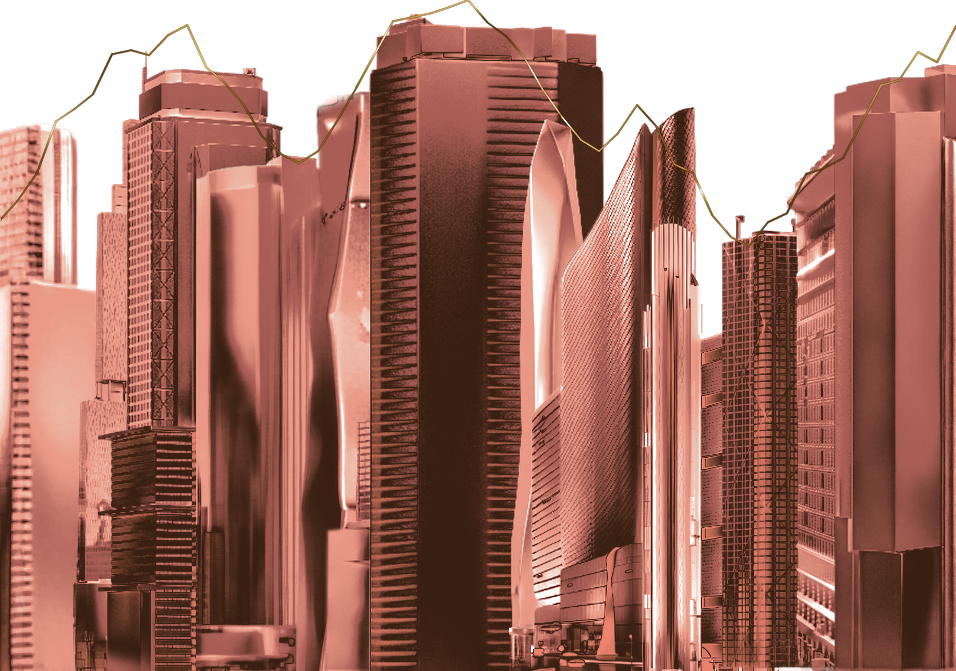
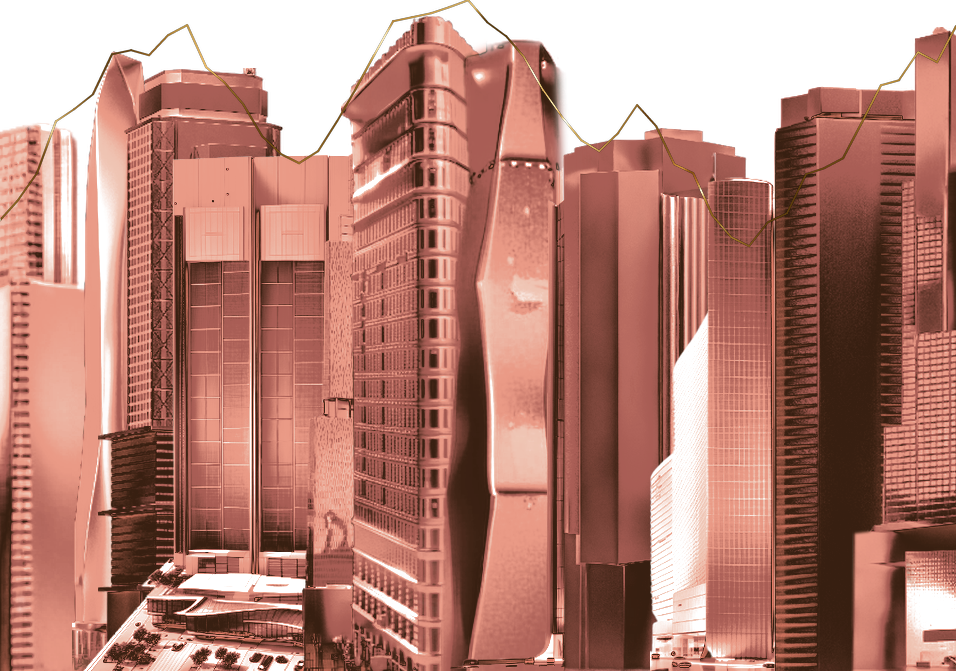
add "none" type for layer offset calculation

diff --git a/python/image_generator/utils.py b/python/image_generator/utils.py
@@ -8,8 +8,21 @@ def getShiftedUserDataID(user_data, num_layers, buildings_per_layer, layer_index
     points_per_line = len(layer_data)
     idx = 0
 
+
     """
-    contain方法:
+    none方法:
+    将整个宽度划分为13个segment,  建筑显示在每个segment的中点. 
+    没有额外的layer offset
+    """
+    if method == "none":
+        idx = round((building_index + 0.5) / (buildings_per_layer) * (points_per_line - 1))
+
+
+    """
+    contain方法: 
+    将整个宽度划分为13个segment, 建筑显示在每个segment的中点
+    
+    offset的计算方法如下:
     1. 横向划分为13个segment
     2. 假设共有两个图层, 
     第一层建筑的中点, 依次在0.25, 1.25, 2.25...12.25个segment的位置,
@@ -22,10 +35,13 @@ def getShiftedUserDataID(user_data, num_layers, buildings_per_layer, layer_index
     if method == 'contain':
         unit_offset = 1 / num_layers
         layer_offset = (layer_index+0.5) * unit_offset
-        idx = int((building_index+layer_offset) / buildings_per_layer * (points_per_line - 1))
+        idx = round((building_index+layer_offset) / buildings_per_layer * (points_per_line - 1))
 
     """
     cover方法:
+    将整个宽度划分为12个segment,  第一栋建筑中点横坐标为0, 最后一栋建筑中点横坐标为layer.width
+
+    offset的计算方法如下:
     1. 横向划分为(13-1)共12个segment. 若没有offset, 第一栋建筑中点横坐标为0, 最后一栋建筑中点横坐标为layer.width
     2. 假设共有两个图层, 
     第一层建筑的中点, 依次在-0.25, 0.75, 1.75...11.75个segment的位置,
@@ -43,14 +59,11 @@ def getShiftedUserDataID(user_data, num_layers, buildings_per_layer, layer_index
     建筑显示在画框外的情况. 因此还是选择contain更合适一些.
     """
     if method == "cover":
-        if num_layers == 1:
-            layer_offset = 0
-        else:
-            unit_offset = 1 / num_layers
-            layer_offset = (layer_index-0.5) * unit_offset
+        unit_offset = 1 / num_layers
+        layer_offset = (layer_index+0.5) * unit_offset
            
-        idx = int((building_index+layer_offset) / (buildings_per_layer-1) * (points_per_line - 1))
-            
+        idx = round((building_index - 0.5 + layer_offset) / (buildings_per_layer-1) * (points_per_line - 1))  
+    
     return idx
 
 def getForegroundUserDataID(user_data, building_index, buildings_per_layer):
@@ -62,5 +75,5 @@ def getForegroundUserDataID(user_data, building_index, buildings_per_layer):
         return None
     points_per_line = len(layer_data)
 
-    idx = int((building_index + 0.5) / buildings_per_layer * (points_per_line-1))
+    idx = round((building_index + 0.5) / buildings_per_layer * (points_per_line-1))
     return idx

diff --git a/python/image_generator/generator.py b/python/image_generator/generator.py
@@ -34,6 +34,7 @@ def generate_final_image(
     buildings_per_layer = config['buildings_per_layer']
     points_per_line = [len(layer_data) for layer_data in user_data]
     extra_building_count = config['extra_building_count']
+    extra_building_height = config['extra_building_height']
 
 
     # 本地资源路径
@@ -116,10 +117,10 @@ def generate_final_image(
                 idx = getForegroundUserDataID(user_data, j, extra_building_count)
                 x_center = int(idx / (points_per_line[i]-1) * size[0])
                 # 给前景一个随机的高度
-                h_ratio = 0.2 + (random.random()-0.5) * 2 * 0.1
+                h_ratio = random.uniform(extra_building_height[0], extra_building_height[1]) 
                 h = int(size[1] * h_ratio)
                 if verbose:
-                    print(f"[第{i+1}层] building={j}, idx = {idx}, x_center = {x_center}")
+                    print(f"[前景层] building={j}, idx = {idx}, x_center = {x_center}")
                 draw_building(layer, img_path, x_center, h, gradient_img, verbose, guides, debug_point_list)
 
         buildings.append(layer)

diff --git a/python/image_generator/config.py b/python/image_generator/config.py
@@ -34,7 +34,9 @@ config = {
         (168, 144, 110, 255)    #第四层       
     ],
     # 第一层前再额外显示的建筑数量
-    "extra_building_count": 3,    
+    "extra_building_count": 3, 
+    # 额外显示建筑的高度范围
+    "extra_building_height": (0.1, 0.2),       
 }
 
 def build_image_paths(config):

diff --git a/python/README.md b/python/README.md
@@ -81,7 +81,9 @@ python/
     (168, 144, 110, 255)    # 第四层       
 ],
 # 第一层前再额外显示的建筑数量
-"extra_building_count": 3
+"extra_building_count": 3,
+# 额外显示建筑的高度范围
+"extra_building_height": (0.1, 0.2),  
 ```
 若需要修改叠加的金银铜三种颜色，请至`/assets`文件夹替换相应图片
 > `gold.png`, `silver.png`, `copper.png`（横向渐变，供建筑叠加）
